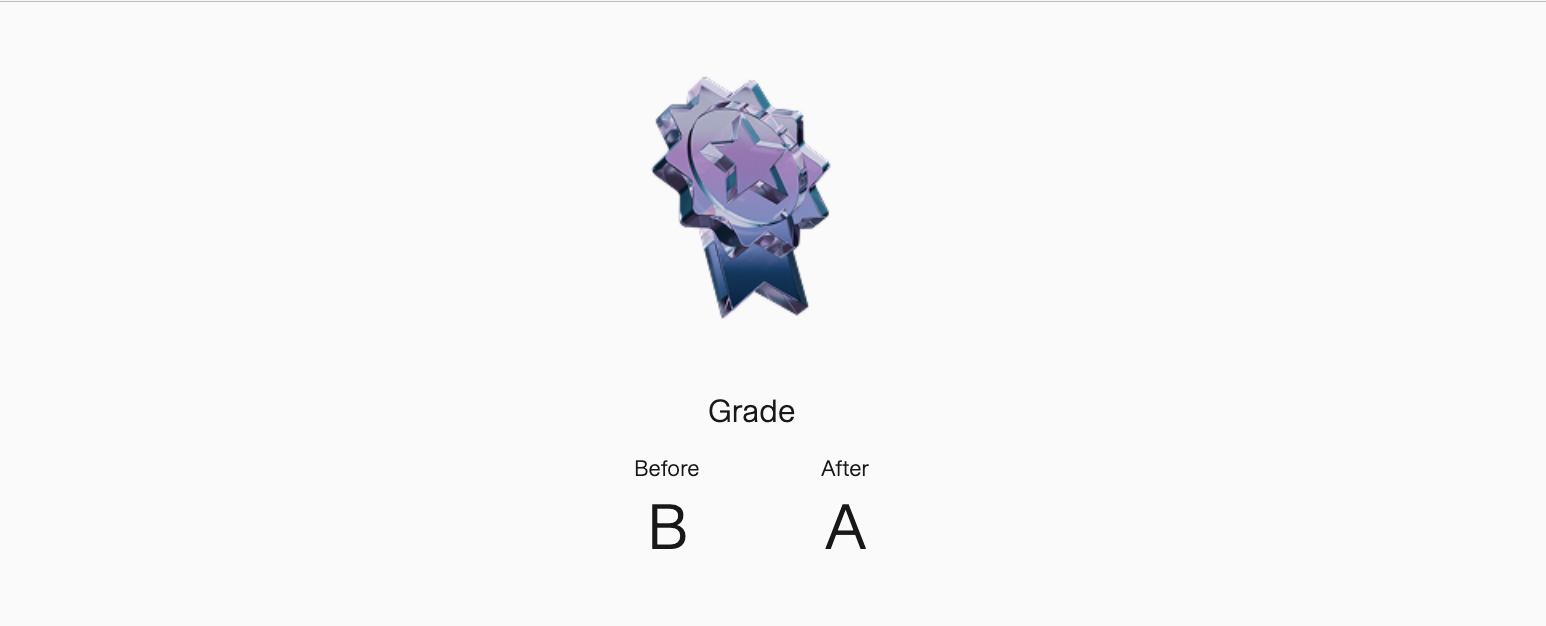
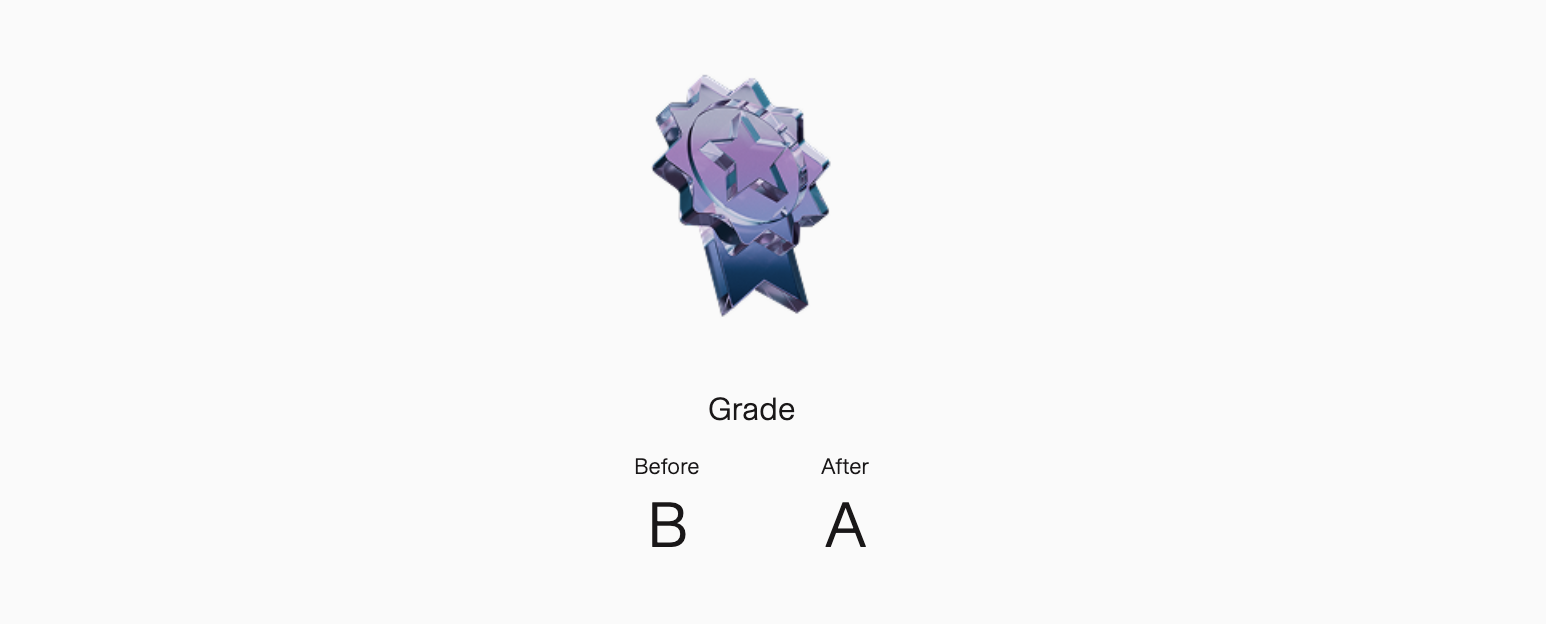
Crop Figure 9 top-edge artifact

diff --git a/index.html b/index.html
@@ -1014,7 +1014,7 @@
 
           <figure class="shot">
             <a class="image-link" href="assets/a2-adaptive-data.png" aria-label="Open the full-resolution Attempt 2 combined-dataset figure">
-              <img src="assets/a2-adaptive-data.png" alt="Adaption quality grade panel showing the Attempt 2 dataset improving from grade B before adaptation to grade A after adaptation" width="1546" height="626" loading="lazy" decoding="async" />
+              <img src="assets/a2-adaptive-data.png" alt="Adaption quality grade panel showing the Attempt 2 dataset improving from grade B before adaptation to grade A after adaptation" width="1546" height="624" loading="lazy" decoding="async" />
             </a>
             <figcaption><strong>Figure 9:</strong> The Adaption platform quality score increased from <strong>8.0 to 9.4</strong>, moving the broader Attempt #2 dataset from grade B to grade A.</figcaption>
           </figure>
